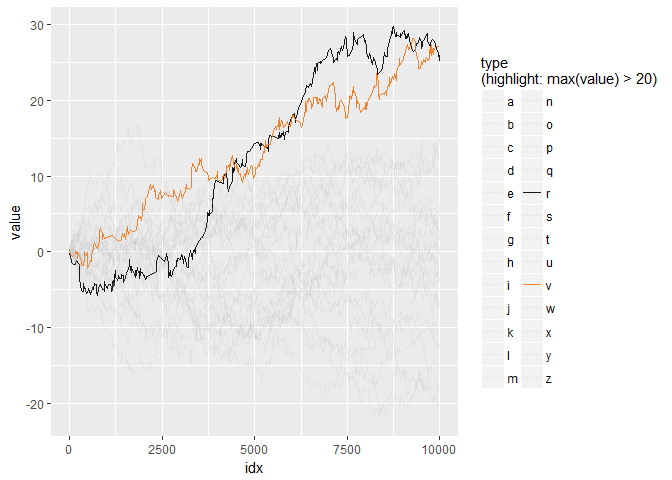
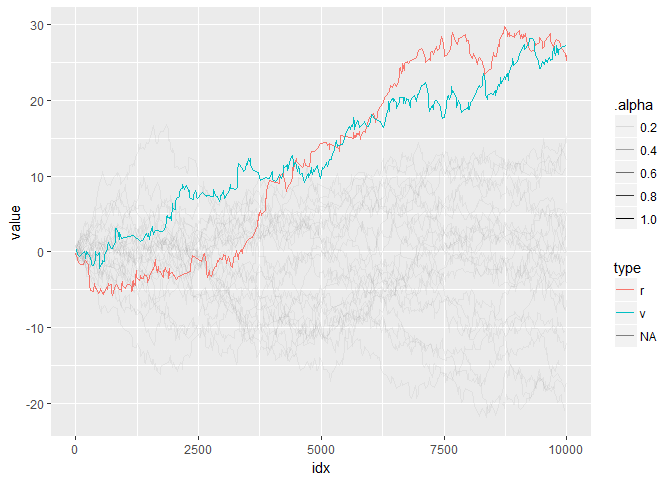
use geom instead of scale

diff --git a/README.md b/README.md
@@ -49,33 +49,7 @@ So we are motivated to highlight only important series, like this:
 library(gghighlight)
 
 ggplot(d) +
-  geom_line(aes(idx, value, colour = type)) +
-  scale_highlight_colour(max(value) > 20)
+  geom_highlighted_line(max(value) > 20, aes(idx, value, colour = type))
 ```
 
 ![](images/gghighlight-line-1.png)
-
-``` r
-ggplot(d) +
-  geom_line(aes(idx, value, colour = type)) +
-  scale_highlight_colour(max(value) > 20) +
-  annotate_highlights(max(value) > 20, aes(idx, value, label = type, colour = type))
-```
-
-![](images/gghighlight-line2-1.png)
-
-``` r
-ggplot(d) +
-  geom_density(aes(value, fill = type)) +
-  scale_highlight_fill(max(value) > 20, .default_colour = ggplot2::alpha("blue", 0.05))
-```
-
-![](images/gghighlight-density-1.png)
-
-``` r
-ggplot(d) +
-  geom_point(aes(idx, value), colour = alpha("blue", 0.1)) +
-  annotate_highlights(idx %% 200 == 0, aes(idx, value, label = type), grouped = FALSE)
-```
-
-![](images/gghighlight-ungrouped-1.png)
